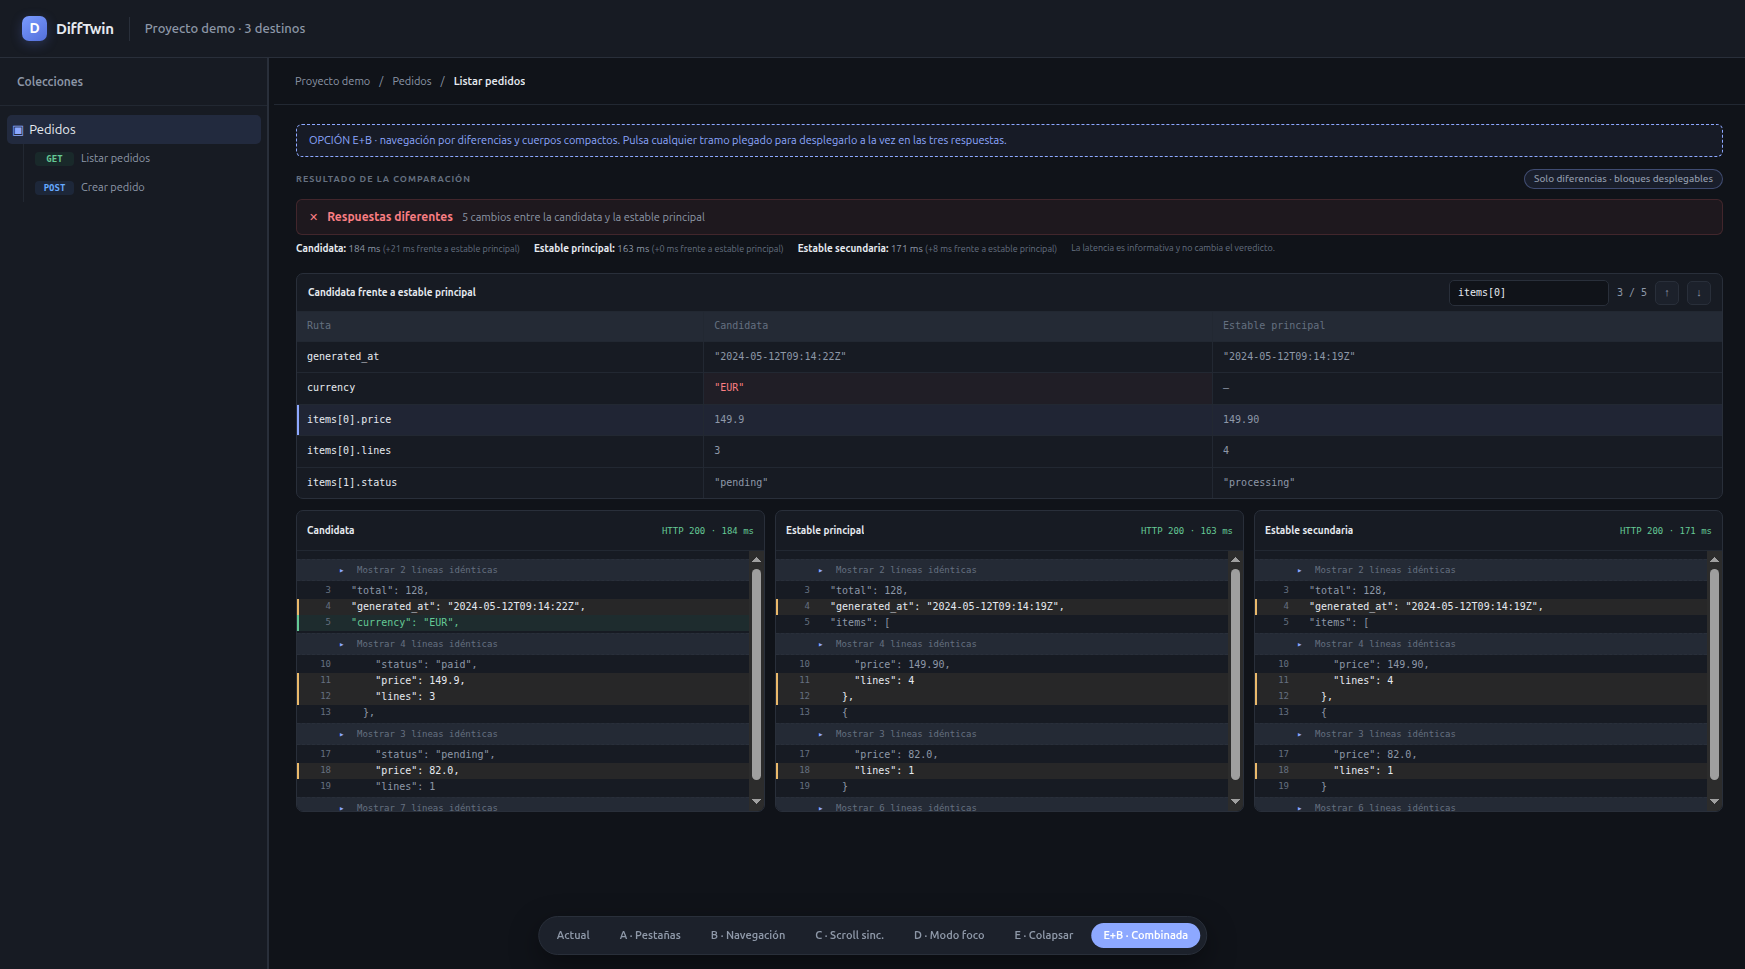
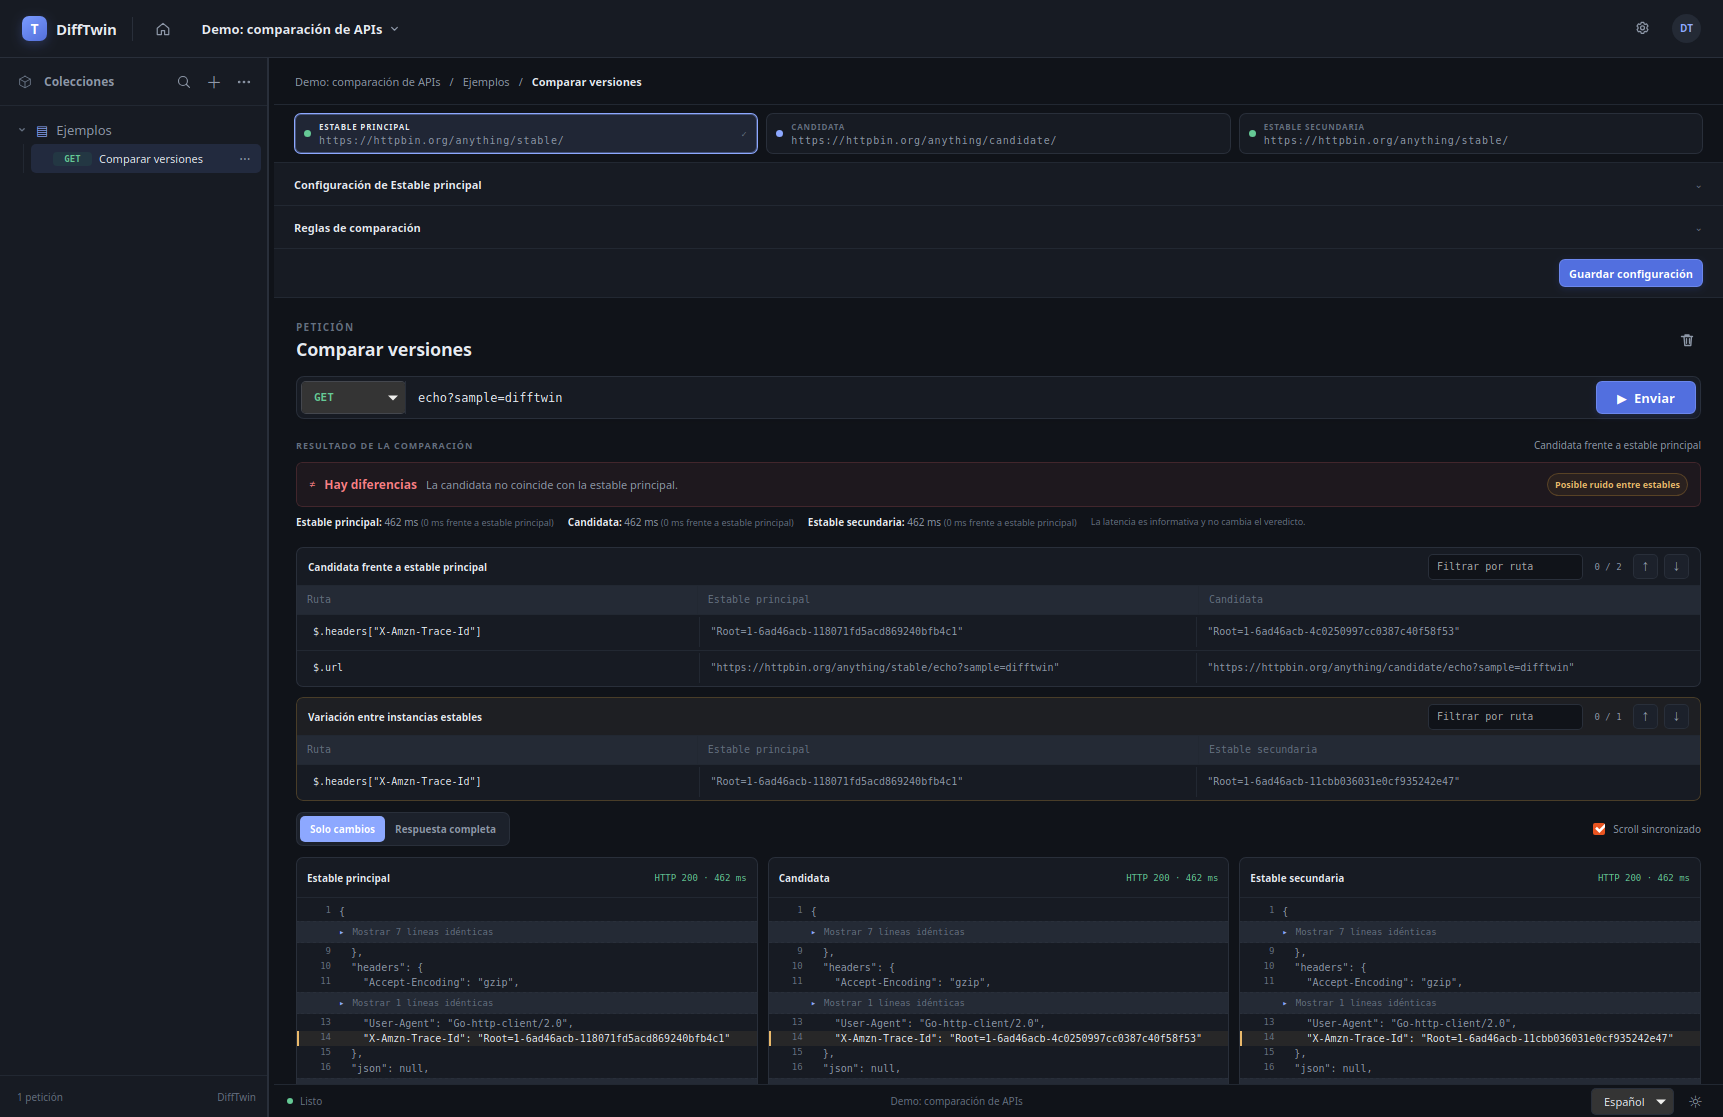
docs: replace mock comparison screenshots
Update both user manuals to describe the built-in demo screenshot and configurable latency alerts. Replace the mock images with captures from the real DiffTwin desktop app.

diff --git a/docs/user-manual.es.md b/docs/user-manual.es.md
@@ -8,7 +8,7 @@ La interfaz de DiffTwin está disponible en español e inglés. La primera vez q
 
 Para cambiar el idioma, selecciona **Español** o **English** en el menú de idioma de la esquina inferior derecha. Para cambiar el tema, pulsa el botón del sol o de la luna que está a su lado. El botón indica el tema al que puedes cambiar.
 
-Las capturas de esta guía usan direcciones reservadas `.example` y respuestas ilustrativas. Se han obtenido de la aplicación con un backend de pruebas local; no muestran respuestas de API reales ni credenciales. Los nombres de los controles pueden variar ligeramente según la versión de la aplicación o el idioma seleccionado.
+Las capturas se han obtenido de la aplicación real DiffTwin. La comparación usa el proyecto de demostración integrado, que consulta HTTPBin, un servicio público de eco; no contiene credenciales ni datos privados. Las demás capturas usan direcciones reservadas `.example` y un backend de pruebas local. Los nombres de los controles pueden variar ligeramente según la versión de la aplicación o el idioma seleccionado.
 
 ## Contenido
 
@@ -121,11 +121,11 @@ Si DiffTwin indica que faltan credenciales, vuelve a introducirlas para el desti
 
 Después de pulsar **Enviar**, DiffTwin muestra un resultado, los detalles de las respuestas y las diferencias entre los destinos Estable principal y Candidata.
 
-![Comparación que muestra una diferencia de precio entre las respuestas Estable principal y Candidata](images/user-manual/es/comparacion-respuestas.png)
+![Comparación en DiffTwin con diferencias entre Estable principal, Candidata y Estable secundaria, latencias y cuerpos de respuesta](images/user-manual/es/comparacion-respuestas.png)
 
-*Las diferencias se muestran por ruta JSON, con los valores de Estable principal y Candidata uno junto al otro. Desplázate por el editor de peticiones para consultar la comparación y los cuerpos de las respuestas.*
+*Captura de la aplicación real con el proyecto de demostración integrado. Las diferencias se muestran por ruta JSON y los cuerpos de respuesta aparecen en paneles sincronizados.*
 
-La comparación incluye el estado HTTP, las cabeceras y los cuerpos de las respuestas. Se normaliza el orden de las claves de los objetos JSON y se excluyen algunas cabeceras de transporte o variables. La latencia se muestra como referencia, pero no afecta al resultado.
+La comparación incluye el estado HTTP, las cabeceras y los cuerpos de las respuestas. Se normaliza el orden de las claves de los objetos JSON y se excluyen algunas cabeceras de transporte o variables. La latencia se muestra junto a los tiempos y puede generar avisos configurables, pero no modifica el veredicto.
 
 Si configuras un destino Estable secundaria, DiffTwin también compara las dos respuestas estables. Las diferencias entre ellas pueden indicar ruido existente en los entornos y no un cambio exclusivo de la candidata.
 

diff --git a/docs/user-manual.md b/docs/user-manual.md
@@ -8,7 +8,7 @@ DiffTwin's interface is available in English and Spanish. On first launch, it fo
 
 To change the language, choose **English** or **Español** from the language menu in the bottom-right corner. To change the theme, select the sun or moon button beside it. The button indicates the theme you can switch to.
 
-The screenshots in this guide use reserved `.example` URLs and illustrative response data. They were captured from the application with a local test backend; they do not show live API responses or real credentials. Labels may vary slightly with the application version or selected language.
+The screenshots were captured from the real DiffTwin application. The comparison image uses the built-in demo project, which calls HTTPBin, a public echo service; it contains no credentials or private data. The other screenshots use reserved `.example` URLs and a local test backend. Labels may vary slightly with the application version or selected language.
 
 ## Contents
 
@@ -121,11 +121,11 @@ If DiffTwin reports that credentials are missing, re-enter them for the selected
 
 After selecting **Send**, DiffTwin displays a verdict, response details, and differences between the stable primary and candidate destinations.
 
-![Comparison showing a price difference between primary stable and candidate responses](images/user-manual/response-comparison.png)
+![DiffTwin comparison showing differences between primary stable, candidate, and secondary stable responses, their latency, and response bodies](images/user-manual/response-comparison.png)
 
-*Differences are shown by JSON path, with the primary stable and candidate values side by side. Scroll the request editor to inspect the comparison and response bodies.*
+*Screenshot of the real application with its built-in demo project. Differences are listed by JSON path, and the response bodies are shown in synchronized panes.*
 
-The comparison includes HTTP status, response headers, and response bodies. JSON object key order is normalized. Some transport-specific or volatile headers are excluded. Latency is shown for context but does not affect the verdict.
+The comparison includes HTTP status, response headers, and response bodies. JSON object key order is normalized. Some transport-specific or volatile headers are excluded. Latency is shown beside the response times and can trigger configurable alerts, but it does not change the verdict.
 
 When a stable secondary destination is configured, DiffTwin also compares the two stable responses. A difference between them may indicate existing environment noise rather than a candidate-only change.
 
